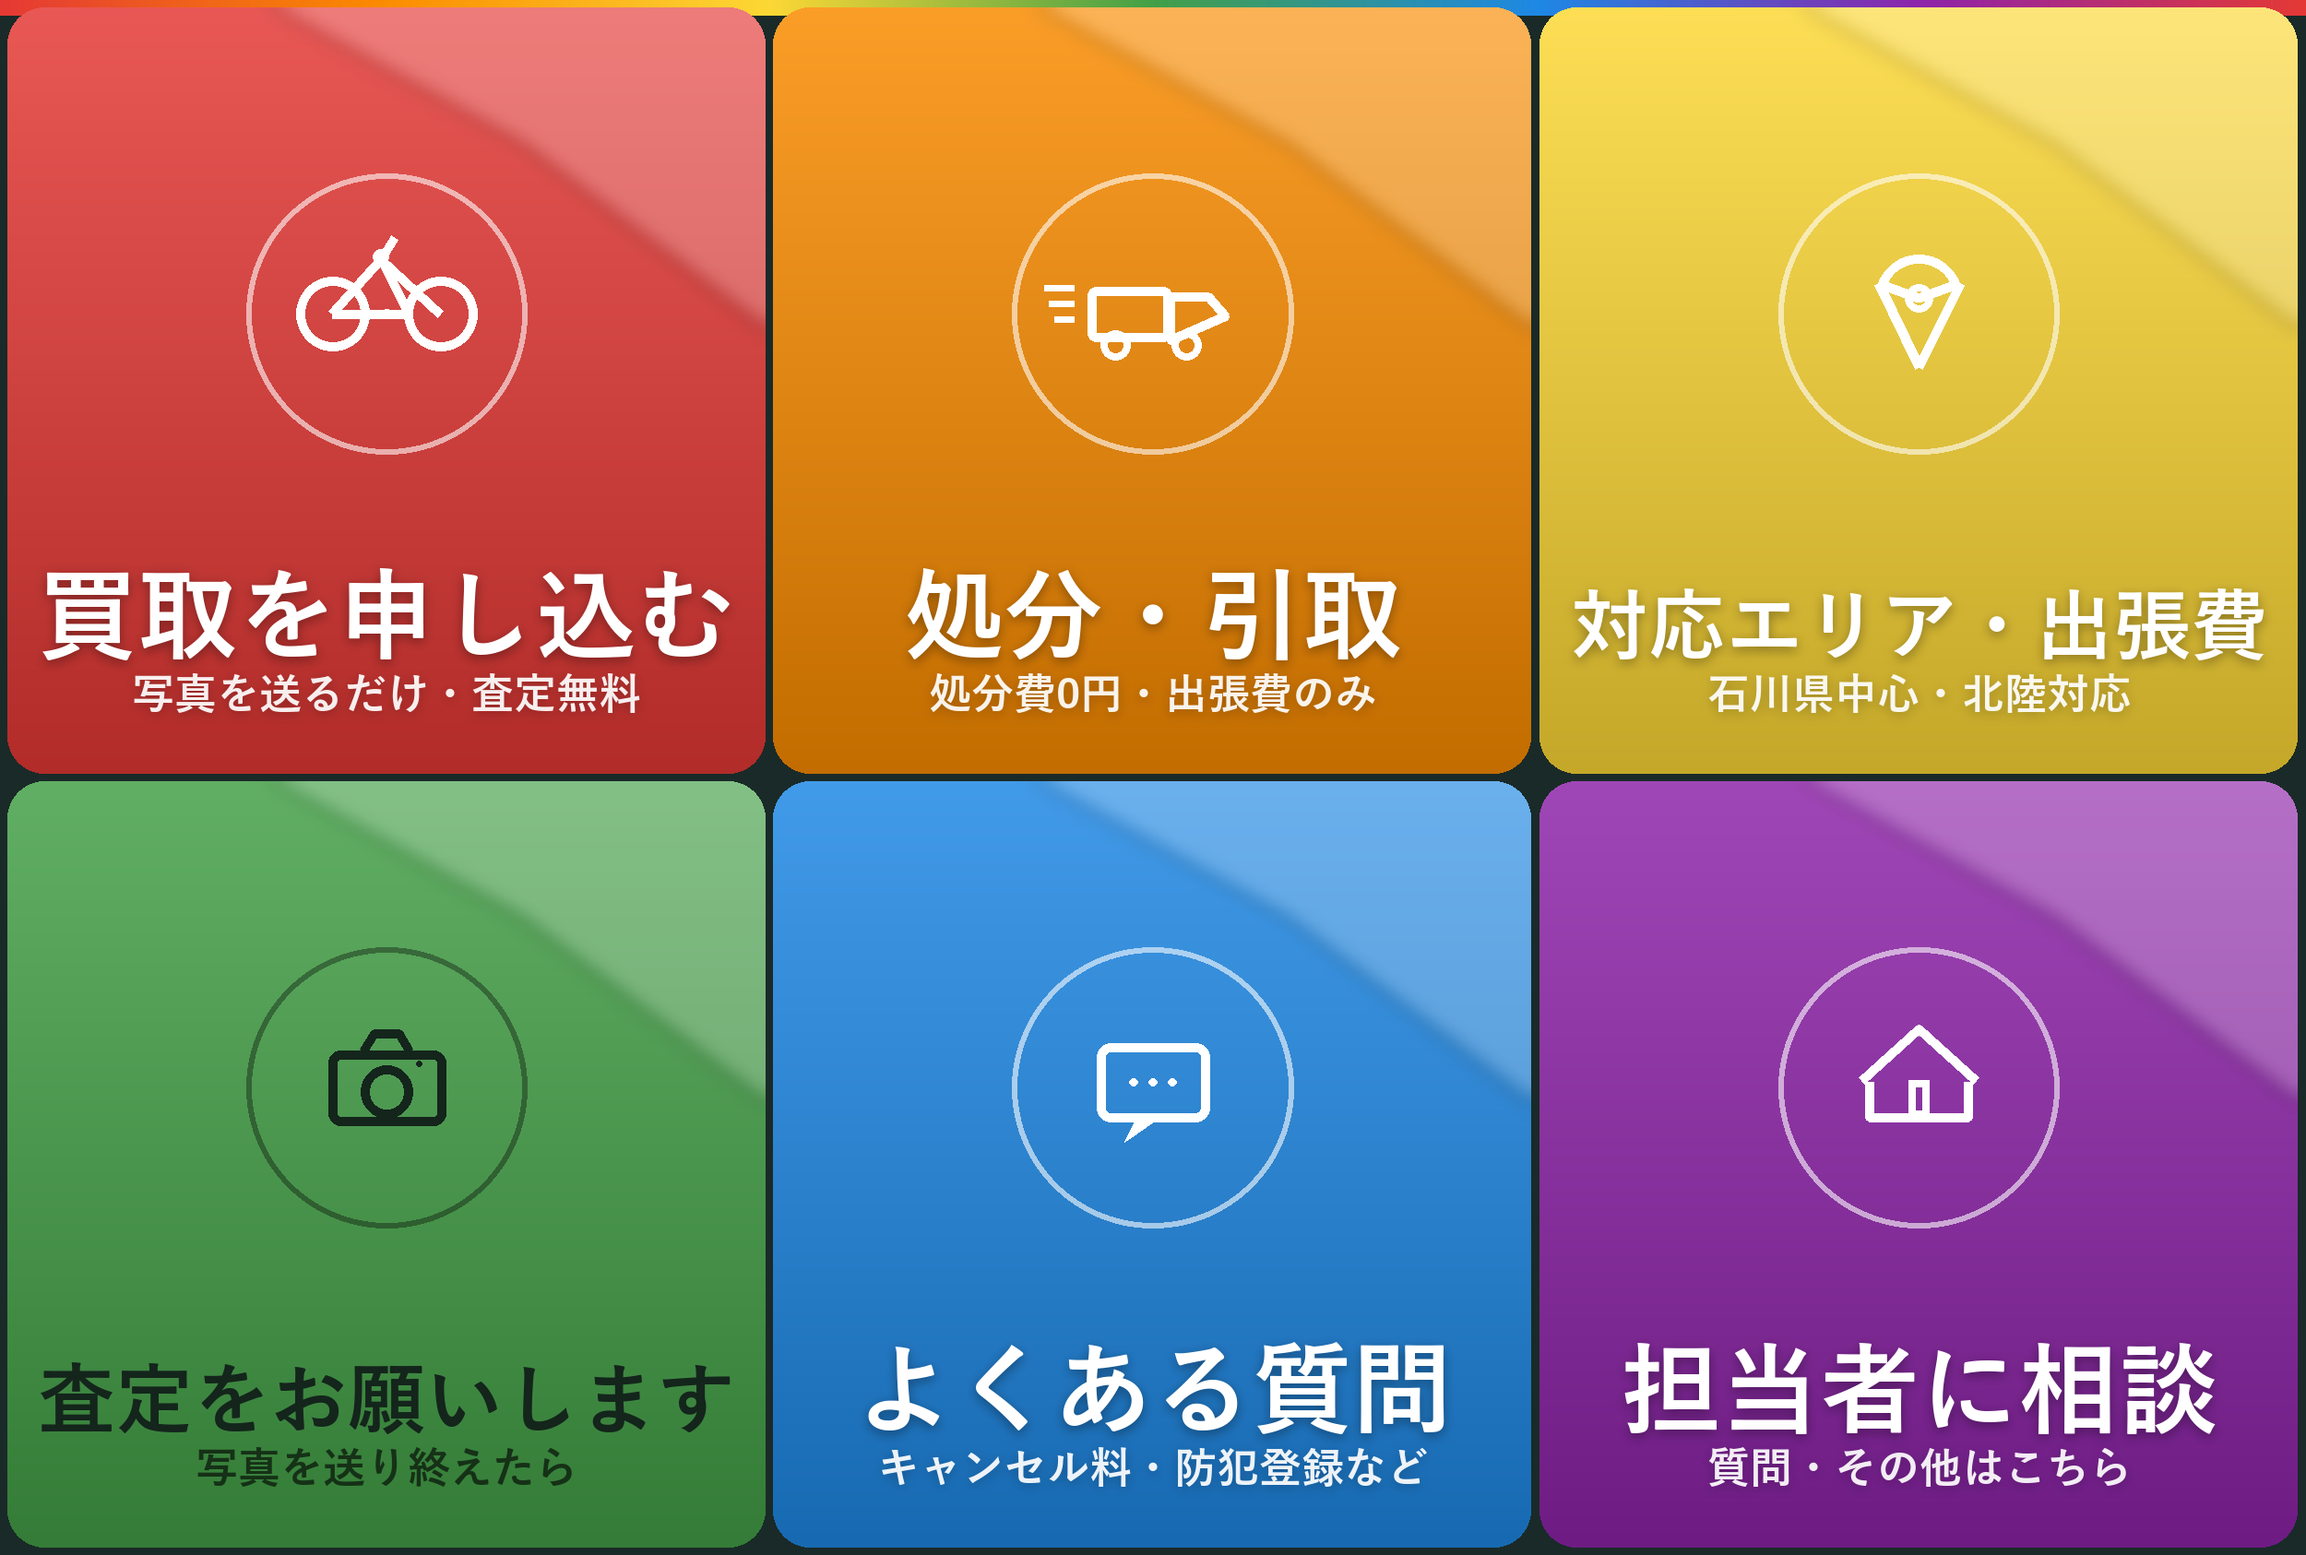
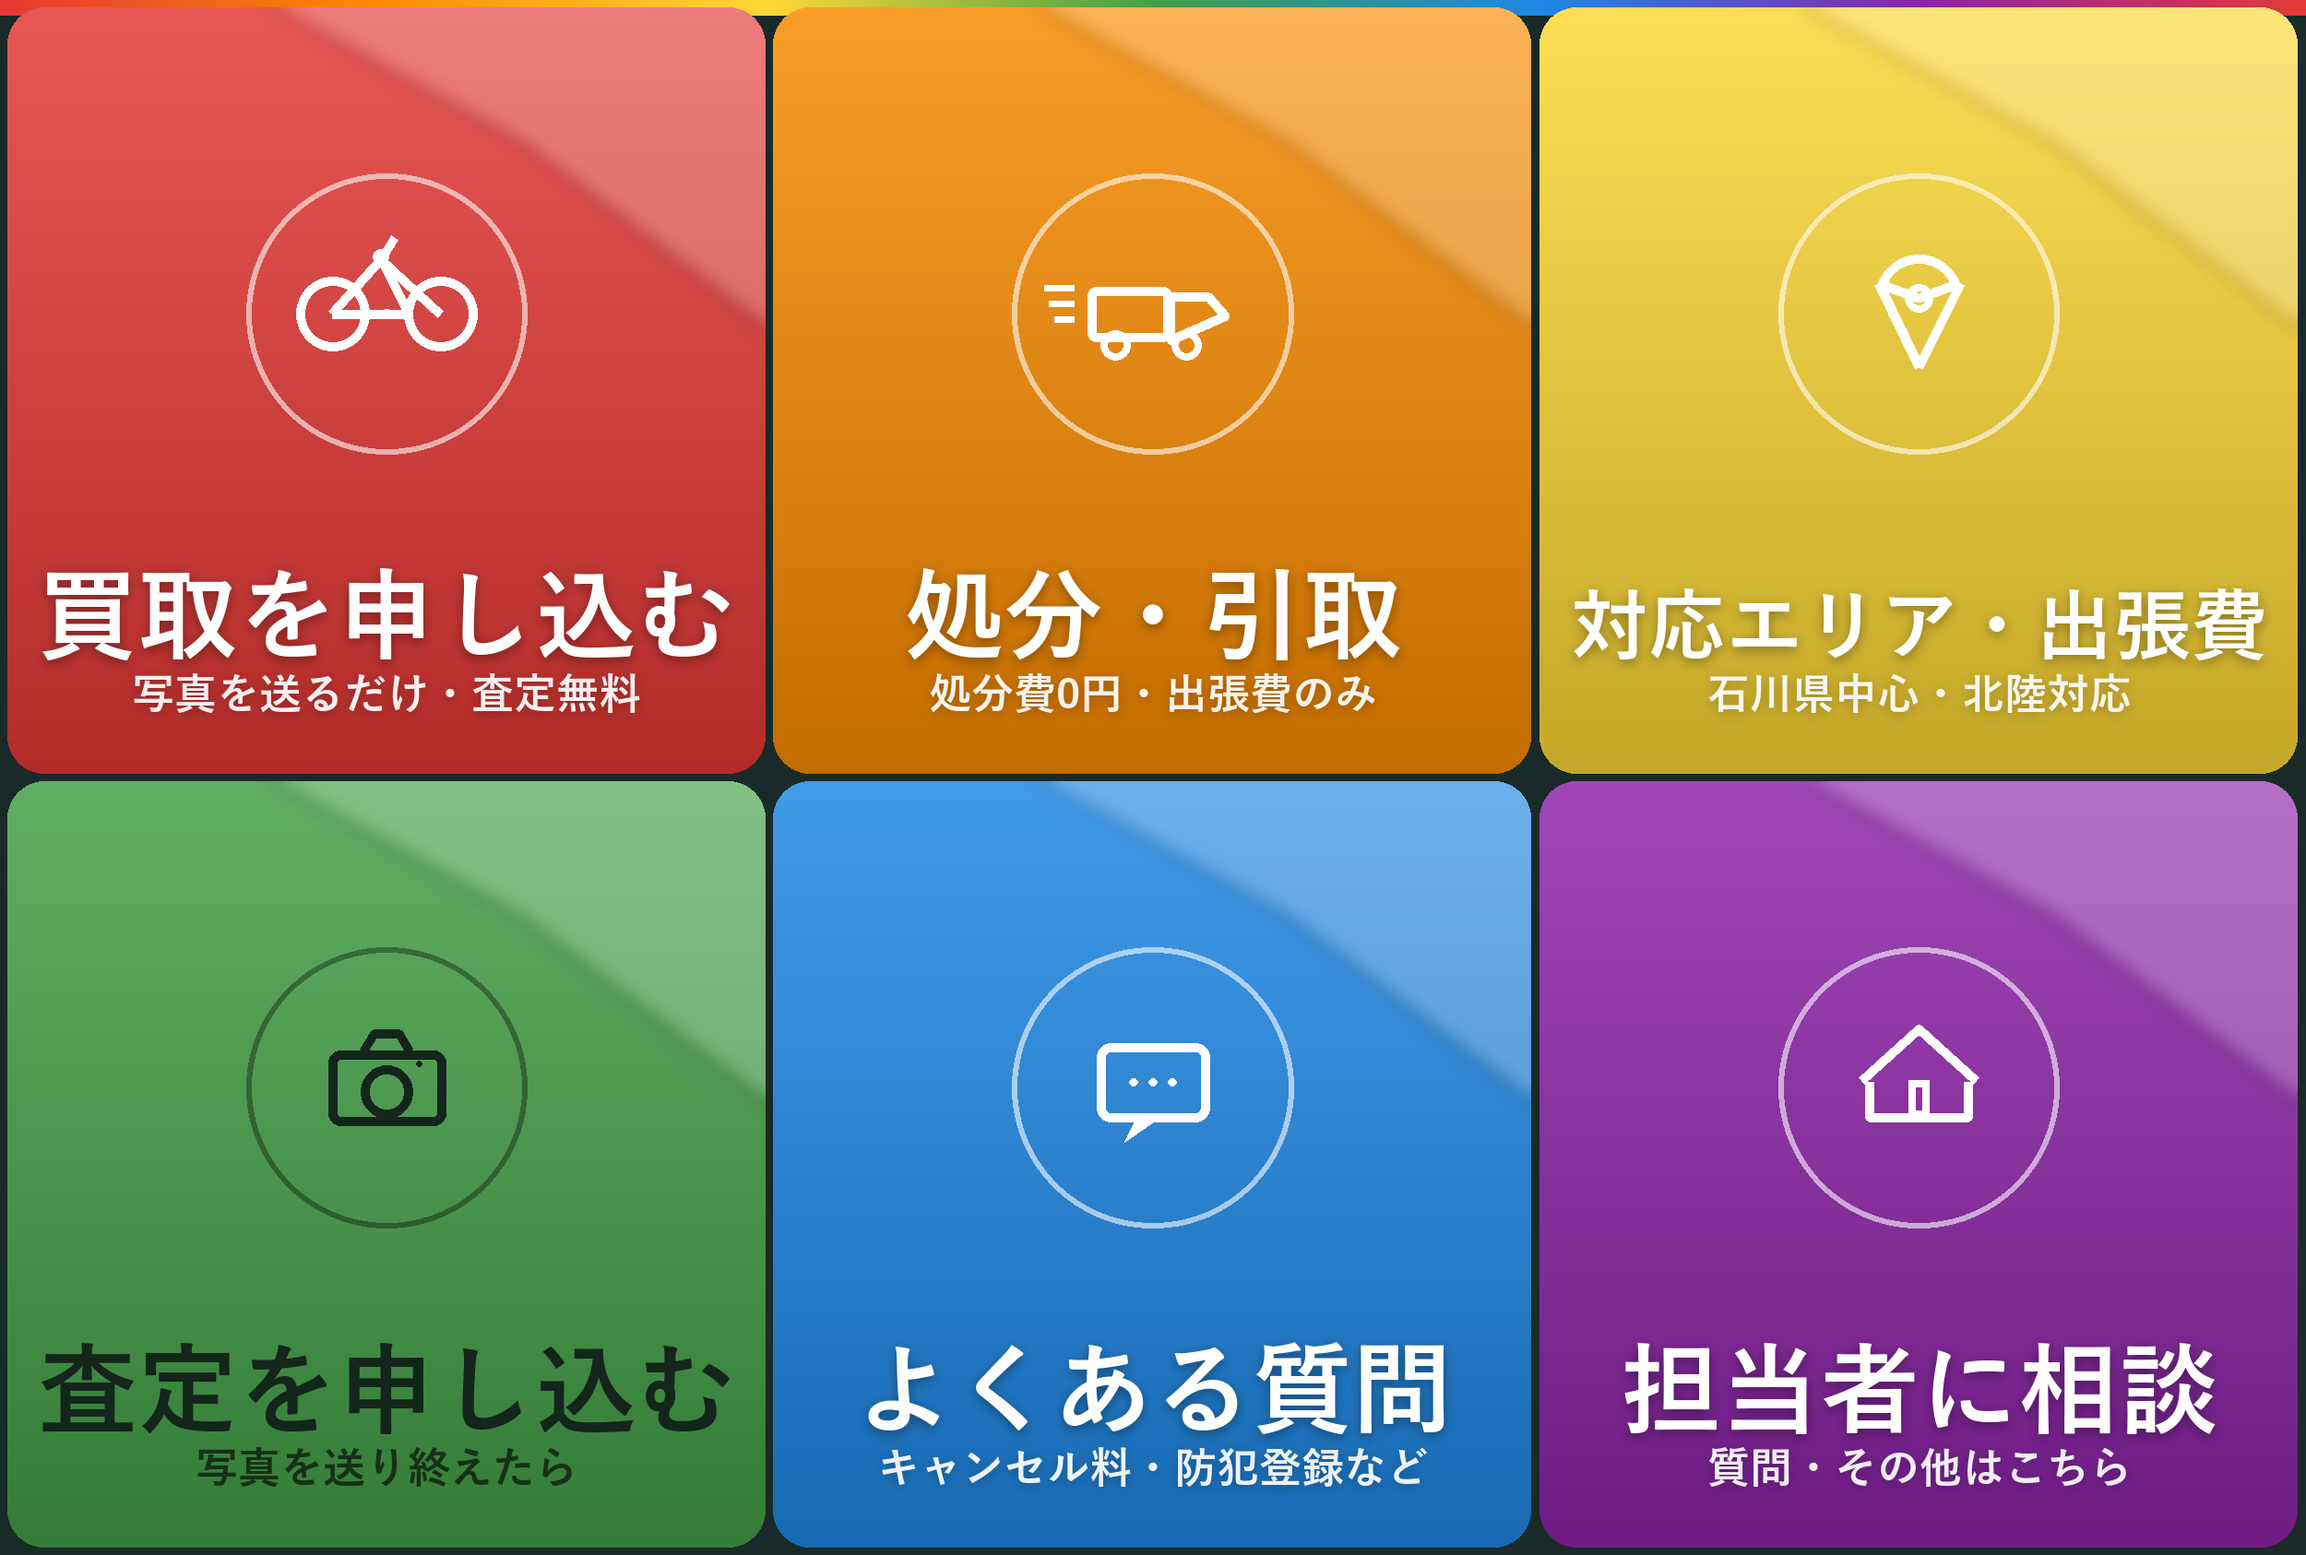
line-bot: LINE自動応答の実運用フィードバック反映（手動モード解除・査定文面・分類不能の無応答化・メニュー画像）
- §5-1 手動対応モードを自動応答系ボタン（買取/引取/エリア/査定/FAQ）で解除できるように（問い合わせ後に別ボタンで自動応答へ復帰）
- §5-2 「査定をお願いします」→「査定を申し込む」に統一。査定後の町名再質問を廃止し必要事項の確認リスト＋漏れは追記に変更。現地減額の文面を「再査定のうえ減額の可能性がある旨ご了承ください」＋故障例は「など」で広めに
- §5-3 分類不能メッセージの自動受付返信(ackUnmatchedOnce_)を廃止（通常会話に割り込まない／受付文は問い合わせボタン時のみ）
- リッチメニューA タイル画像を再生成（左下=査定を申し込む）＋ richmenu_A.json / gen.py 更新
- handoff_line_system.md の §5-1/§7 記述を更新

GAS本体は v18〜v21 として本番反映済み（URL不変）。

Changed region(s): [[0.0, 0.8636, 0.312, 0.9253]]

diff --git a/line-richmenu-gen.py b/line-richmenu-gen.py
@@ -42,7 +42,7 @@ CELLS = [
     {"label": "買取を申し込む", "sub": "写真を送るだけ・査定無料", "icon": "bicycle"},
     {"label": "処分・引取", "sub": "処分費0円・出張費のみ", "icon": "truck"},
     {"label": "対応エリア・出張費", "sub": "石川県中心・北陸対応", "icon": "pin"},
-    {"label": "査定をお願いします", "sub": "写真を送り終えたら", "dark": True, "icon": "camera"},
+    {"label": "査定を申し込む", "sub": "写真を送り終えたら", "dark": True, "icon": "camera"},
     {"label": "よくある質問", "sub": "キャンセル料・防犯登録など", "icon": "chat"},
     {"label": "担当者に相談", "sub": "質問・その他はこちら", "icon": "house"},
 ]
